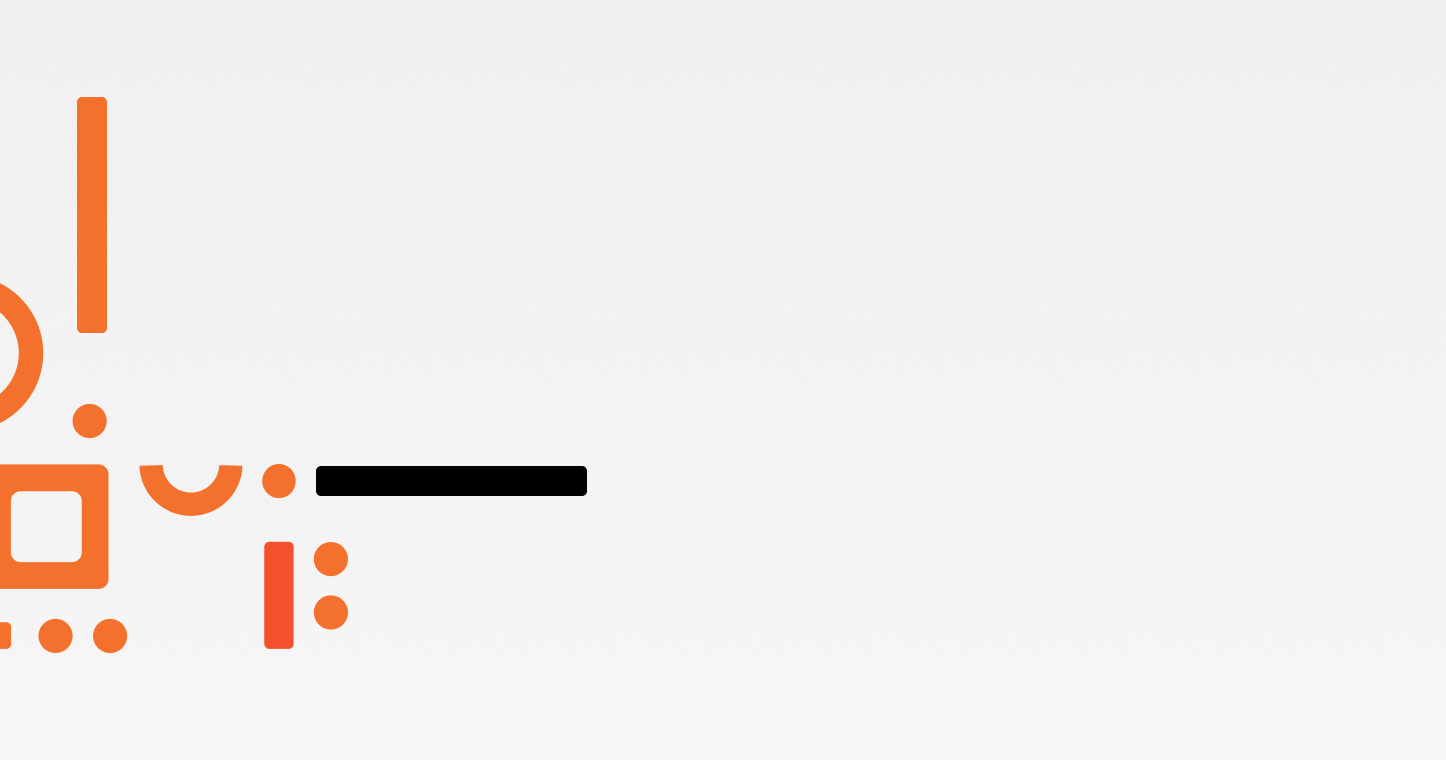
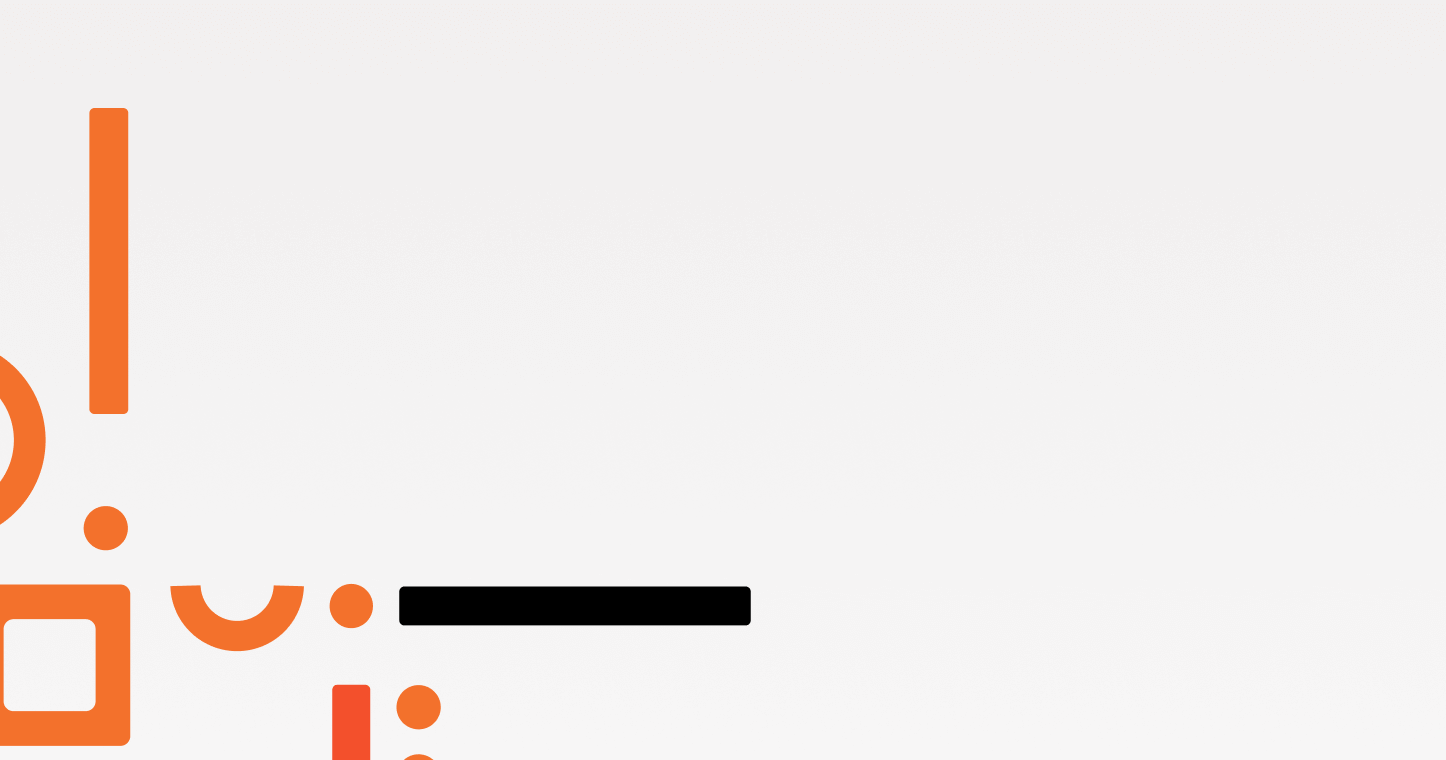
updated api400, added new apiboss page, changed folder name on new pages

Changed region(s): [[0.0, 0.1211, 0.529, 0.9987], [0.2178, 0.8776, 0.3112, 1.0]]

diff --git a/frontend/apps/tekmonks/pages/landing/section1.styleArticle.css b/frontend/apps/tekmonks/pages/landing/section1.styleArticle.css
@@ -126,7 +126,7 @@ img {
     
   }
 
-.api400-section3{
+.api400-section1{
     background: url(./articles/products/api400.md/section1.md/api400-white-bg.png);
     background-repeat: no-repeat;
     background-size: 100% 100%;
@@ -139,6 +139,7 @@ img {
 .api400-text-container{
     display: flex;
     flex-direction: column;
+    justify-content: center;
     height: 100%;
     margin-left: 40px;
 }
@@ -153,7 +154,7 @@ p.api400-h1{
 
 p.api400-h2{
     font-size: 48px;
-    color: #F3712C;
+    color: #63B751;
     line-height: 0.90em;
     font-weight: 700;
 }
@@ -176,7 +177,7 @@ p.api400-text {
     font-family: Chakra Petch;
 }
 
-.apiboss-section3{
+.apiboss-section1{
     background: url(./articles/products/apiboss.md/section1.md/apiboss-white-bg.png);
     background-repeat: no-repeat;
     background-size: 100% 100%;
@@ -185,8 +186,6 @@ p.api400-text {
     align-items: center;
     min-height: 500px;
 }
-
-
 
 .apiboss-text-container{
     display: flex;

diff --git a/frontend/apps/tekmonks/pages/landing/section2.styleArticle.css b/frontend/apps/tekmonks/pages/landing/section2.styleArticle.css
@@ -21,7 +21,7 @@ body{
 
 
 
-.api400-section3{
+.api400-section2{
     background: url(./articles/products/api400.md/section2.md/api400-blue-bg.png);
     background-repeat: no-repeat;
     background-size: 100% 100%;
@@ -31,7 +31,7 @@ body{
  }
 
  
- .apiboss-section3{
+ .apiboss-section2{
     background: url(./articles/products/apiboss.md/section2.md/apiboss-red-bg.png);
     background-repeat: no-repeat;
     background-size: 100% 100%;

diff --git a/frontend/apps/tekmonks/pages/landing/header.styleArticle.css b/frontend/apps/tekmonks/pages/landing/header.styleArticle.css
@@ -32,12 +32,6 @@ td{
 
 @media (min-width: 381px) and (max-width: 967px) {
   
-    img {
-        margin-left: -30px;
-        height: 270px;
-        float: none;
-    }
-
     td {
         text-align: center !important;
     }

diff --git a/frontend/apps/tekmonks/pages/landing/calltoaction.styleArticle.css b/frontend/apps/tekmonks/pages/landing/calltoaction.styleArticle.css
@@ -50,6 +50,12 @@ img[title=api400-black] {
     bottom: 0;
 }
 
+img[title=apiboss-black] {
+    position: absolute;
+    bottom: 0;
+}
+
+
 table{
     width: 100%;
 }

diff --git a/frontend/apps/tekmonks/articles/products/apiboss.md/calltoaction.md/calltoaction.en.md b/frontend/apps/tekmonks/articles/products/apiboss.md/calltoaction.md/calltoaction.en.md
@@ -1,6 +1,6 @@
 <div class="apiboss-section5" markdown="1">
 | | |
 |:-------|:-------|
-|![APIBoss](articles/products/apiboss.md/calltoaction.md/apiboss-black-logo.png =350x* "apiboss-black")|<h1 class="text-white">Light Weight</h1> <h1 class="text-red">Heavy Duty</h1> <br> <div>[Schedule a demo]({{#makeLink}}./productinquiries.html?article_path=./company/productinquiries.md&menu_path=/{{/makeLink}}) </div>|
+|![APIBoss](articles/products/apiboss.md/calltoaction.md/apiboss-black-logo.png =250x* "apiboss-black")|<h1 class="text-white">Light Weight</h1> <h1 class="text-red">Heavy Duty</h1> <br> <div>[Schedule a demo]({{#makeLink}}./productinquiries.html?article_path=./company/productinquiries.md&menu_path=/{{/makeLink}}) </div>|
 </div>
 

diff --git a/frontend/apps/tekmonks/articles/products/api400.md/section1.md/section1.en.md b/frontend/apps/tekmonks/articles/products/api400.md/section1.md/section1.en.md
@@ -1,5 +1,5 @@
-<div class="api400-section3" markdown="1">
+<div class="api400-section1" markdown="1">
 | |
 |---|
-|<div class="api400-text-container"><p class="api400-h1">Your</p><p class="api400-h2">Green</p><p class="api400-h2">Screens</p><p class="api400-h3">Workplace</p></div>|
+|<div class="api400-text-container"><p class="api400-h1">Your</p><p class="api400-h2">Green</p><p class="api400-h2">Screens</p><p class="api400-h3">Unlocked</p></div>|
 </div>

diff --git a/frontend/apps/tekmonks/articles/products/apiboss.md/section1.md/section1.en.md b/frontend/apps/tekmonks/articles/products/apiboss.md/section1.md/section1.en.md
@@ -1,4 +1,4 @@
-<div class="apiboss-section3" markdown="1">
+<div class="apiboss-section1" markdown="1">
 | |
 |---|
 |<div class="apiboss-text-container"><p class="apiboss-h1">Designed</p><p class="apiboss-h3">for Modern </p><p class="apiboss-h3"> Development</p><p class="apiboss-h2">through </p><p class="apiboss-h2">APIs</p></div>|

diff --git a/frontend/apps/tekmonks/articles/products/apiboss.md/section2.md/section2.en.md b/frontend/apps/tekmonks/articles/products/apiboss.md/section2.md/section2.en.md
@@ -1,4 +1,4 @@
-<div markdown="1" class="apiboss-section3">
+<div markdown="1" class="apiboss-section2">
 ## API Manager 
 ## for the Digital 
 ## Economy

diff --git a/frontend/apps/tekmonks/articles/products/api400.md/section2.md/section2.en.md b/frontend/apps/tekmonks/articles/products/api400.md/section2.md/section2.en.md
@@ -1,4 +1,4 @@
-<div markdown="1" class="api400-section3">
+<div markdown="1" class="api400-section2">
 ## Let API/400 
 ## Unlock Your
 # IBM i
